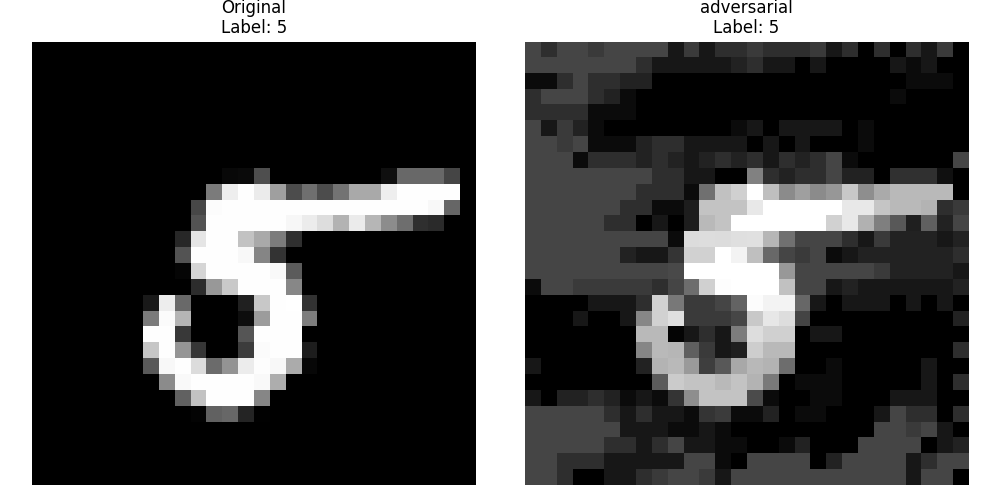
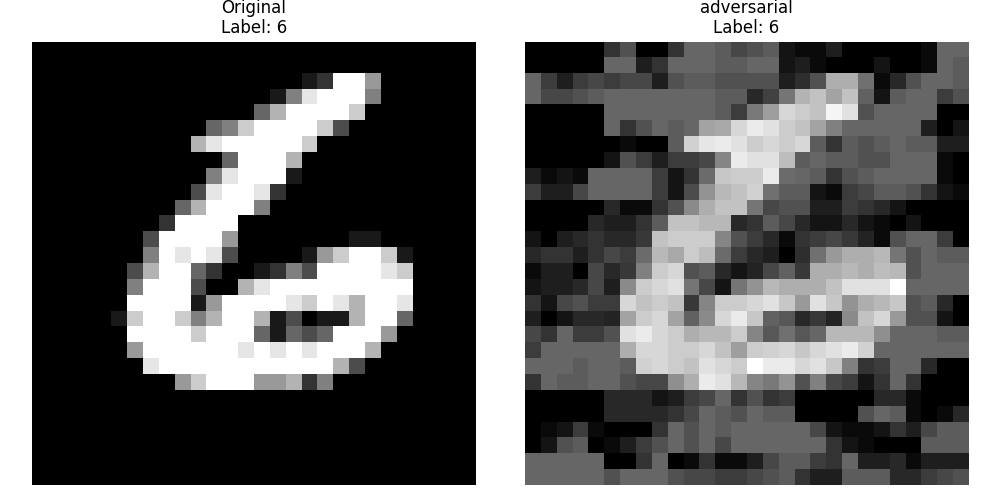
:art: add PoissonEncoder for image transformation and update adversarial image generation methods

diff --git a/utils/train.py b/utils/train.py
@@ -9,7 +9,7 @@ from .spikingjelly.spikingjelly.activation_based.model import spiking_vgg
 from typing import Tuple
 from tqdm.auto import tqdm
 from .model import CNN, SNN
-from .adversarial_image import generate_adv_image, save_image
+from .adversarial_image import generate_adversial_image_fgsm, save_image
 from .config import Config
 
 
@@ -22,29 +22,28 @@ def train_model(config: Config, mode=None) -> Tuple[float, float]:
     for i, (data, target) in tqdm(enumerate(iter(config.train_loader))):
         data, target = data.to(config.device), target.to(config.device)
 
-        if mode == "gd":
-            config.optimizer.zero_grad()
+        config.optimizer.zero_grad()
 
-        if mode == "stdp":
-            if config.parameters_stdp:
-                config.optimizer_stdp.zero_grad()
+        if config.parameters_stdp:
+            config.optimizer_stdp.zero_grad()
 
         y_hat = net(data).mean(0) if config.method != "CNN" else net(data)
         loss = config.loss_fn(y_hat, target)
-        loss.backward()
 
         if mode == "stdp":
             if config.parameters_stdp:
                 for learner in config.stdp_learners:
                     with th.no_grad():
                         learner.step(on_grad=True)
+                        learner.synapse.weight.data.clamp_(0.0, 1.0)
 
         if mode == "gd":
+            loss.backward()
             config.optimizer.step()
 
-        if mode == "stdp":
-            if config.parameters_stdp:
-                config.optimizer_stdp.step()
+        # if mode == "stdp":
+        #    if config.parameters_stdp:
+        #        config.optimizer_stdp.step()
 
         functional.reset_net(net)
 
@@ -64,9 +63,12 @@ def train_model(config: Config, mode=None) -> Tuple[float, float]:
 
 def evaluate_model(config: Config) -> Tuple[float, float]:
     net = config.network
-    net.eval()
+    # net.eval()
     if config.load:
         net.load_state_dict(th.load(f"./saved/{config.method.lower()}_{config.data_set}.pt"))
+
+    net.eval()
+
     total_loss, total_acc = 0, 0
     length = 0
 
@@ -78,7 +80,7 @@ def evaluate_model(config: Config) -> Tuple[float, float]:
         if config.attack:
             net.train()
 
-            adv_imgs = generate_adv_image(net, data, target, config.epsilon)
+            adv_imgs = generate_adversial_image_fgsm(net, data, target, config.epsilon)
             save_image(
                 data, adv_imgs, f"./images/comparison_image_{config.method.lower()}_{config.data_set}.png", target
             )
@@ -141,26 +143,42 @@ def train_evaluate(config: Config) -> None:
                 print(f"Adding STDP learner to {module}")
                 added = True
                 parameters_stdp.extend(module.parameters())
-            elif isinstance(module, (nn.Linear, nn.Conv2d)):
+            else:
                 print(f"Adding GD Optimizer to {module}")
                 parameters_gd.extend(module.parameters())
     else:
         parameters_gd = net.parameters()
 
-    config.optimizer = th.optim.Adam(parameters_gd, lr=config.lr)
+    all_parameters = list(net.parameters())
+    parameters_stdp_set = set(parameters_stdp)
+    parameters_gd = [p for p in all_parameters if p not in parameters_stdp_set]
+
+    config.optimizer = th.optim.Adam(all_parameters, lr=config.lr)
 
     config.network = net
     config.parameters_stdp = parameters_stdp
     config.stdp_learners = stdp_learners
 
     config.optimizer_stdp = (
-        th.optim.SGD(config.parameters_stdp, lr=config.lr, momentum=0.0) if config.parameters_stdp else None
+        th.optim.SGD(config.parameters_stdp, lr=config.lr * 0.1, momentum=0.0) if config.parameters_stdp else None
     )
 
     attack = config.attack
     if attack:
         adv_config = replace(config, attack=True)
         config = replace(config, attack=False)
+
+    layer_num = 0
+    layer_num_2 = 3
+
+    weight = config.network.layer[layer_num].weight.clone()
+    weight2 = config.network.layer[layer_num_2].weight.clone()
+
+    print("Weight stats after STDP:")
+    print("min:", weight.data.min().item())
+    print("max:", weight.data.max().item())
+    print("mean:", weight.data.mean().item())
+
     for epoch in range(config.num_epochs):
         if config.load:
             if attack:
@@ -183,8 +201,27 @@ def train_evaluate(config: Config) -> None:
         else:
             if epoch % 2 == 1:
                 epoch_loss, epoch_acc = train_model(config, "stdp")
+
+                print("After STDP:", (weight - config.network.layer[layer_num].weight).abs().sum())
+                print("After STDP:", (weight2 - config.network.layer[layer_num_2].weight).abs().sum())
+
+                weight = config.network.layer[layer_num].weight.clone()
+                weight2 = config.network.layer[layer_num_2].weight.clone()
+
+                print("Weight stats after STDP:")
+                print("min:", weight.data.min().item())
+                print("max:", weight.data.max().item())
+                print("mean:", weight.data.mean().item())
+
             else:
                 epoch_loss, epoch_acc = train_model(config, "gd")
+
+                print("After GD:", (weight - config.network.layer[layer_num].weight).abs().sum())
+                print("After GD:", (weight2 - config.network.layer[layer_num_2].weight).abs().sum())
+
+                weight = config.network.layer[layer_num].weight.clone()
+                weight2 = config.network.layer[layer_num_2].weight.clone()
+
             print(f"{epoch + 1} epoch - Loss: {epoch_loss:.4f}, Acc: {epoch_acc:.2f}%")
             # wandb.log({
             #              "attack loss" : epoch_loss,
@@ -192,7 +229,7 @@ def train_evaluate(config: Config) -> None:
             #          },
             #              step = epoch + 1
             #          )
-            if config.save:
+            if True:
                 th.save(net.state_dict(), f"./saved/{config.method.lower()}_{config.data_set}.pt")
             if attack:
                 epoch_adv_loss, epoch_adv_acc = evaluate_model(adv_config)

diff --git a/utils/adversarial_image.py b/utils/adversarial_image.py
@@ -4,11 +4,47 @@ import matplotlib.pyplot as plt
 import torch.nn as nn
 from torchvision import transforms
 from .spikingjelly.spikingjelly.activation_based import functional
+from .model import CNN, SNN
 
 
-def generate_adv_image(model, image, target, epsilon=0.05):
+def generate_adversial_image_fgsm(model, image, target, epsilon=0.05):
     """
     Method : FGSM
+    param model : trained model
+    param image : original image (shape : [batch_size, 1, 28, 28])
+    param target : target of original image
+    param epsilon : adversial intensity
+    """
+    image = image.clone().detach().to(th.device("cuda:0"))
+    target = target.clone().detach().to(th.device("cuda:0"))
+
+    # model = SNN(T=10).cuda()
+    # model.load_state_dict(th.load(f"./saved/snn_MNIST.pt"))
+
+    image.requires_grad = True
+    model.zero_grad()
+    y_hat = model(image)
+
+    if y_hat.dim() == 3:
+        y_hat = y_hat.mean(0)
+    loss = F.cross_entropy(y_hat, target)
+
+    # model.zero_grad()
+    # loss.backward()
+
+    # grad_sign = image.grad.sign()
+
+    grad_sign = th.autograd.grad(loss, image, retain_graph=False, create_graph=False)[0].sign()
+
+    adversarial_image = image + epsilon * grad_sign  # image + pertubation
+    adversarial_image = th.clamp(adversarial_image, 0, 1).detach()
+
+    return adversarial_image
+
+
+def generate_adv_image_pgd(model, image, target, epsilon=0.05):
+    """
+    Method : PGD
     param model : trained model
     param image : original image (shape : [batch_size, 1, 28, 28])
     param target : target of original image
@@ -59,6 +95,9 @@ def save_image(original_image, adversarial_image, filename, target):
     param target : target of the image
     """
     import random
+
+    original_image = original_image.mean(1)
+    adversarial_image = adversarial_image.mean(1)
 
     r = random.randint(0, len(original_image) - 1)
 

diff --git a/main.py b/main.py
@@ -54,6 +54,19 @@ def manual_seed(seed: int = 42) -> None:
     th.use_deterministic_algorithms(True, warn_only=True)
 
 
+class PoissonEncoder:
+    def __init__(self, T: int):
+        self.T = T
+
+    def __call__(self, image: th.Tensor) -> th.Tensor:
+        """
+        image: (1, 28, 28), float tensor in [0,1]
+        return: (T, 1, 28, 28), binary spikes
+        """
+        # Poisson spike sampling across T timesteps
+        return (th.rand(self.T, *image.shape) < image).float()
+
+
 if __name__ == "__main__":
     args = implement_parser()
 
@@ -74,8 +87,10 @@ if __name__ == "__main__":
     manual_seed(args.seed)
 
     if args.data_set == "MNIST":
-        MNIST_train = MNIST(root="./data", download=True, train=True, transform=transforms.ToTensor())
-        MNIST_test = MNIST(root="./data", download=True, train=False, transform=transforms.ToTensor())
+        transform = transforms.Compose([transforms.ToTensor(), PoissonEncoder(T=10)])
+
+        MNIST_train = MNIST(root="./data", download=True, train=True, transform=transform)
+        MNIST_test = MNIST(root="./data", download=True, train=False, transform=transform)
 
         train_loader = DataLoader(MNIST_train, batch_size=args.batch_size, shuffle=True, num_workers=args.num_workers)
         test_loader = DataLoader(MNIST_test, batch_size=args.batch_size, shuffle=False, num_workers=args.num_workers)

diff --git a/utils/model.py b/utils/model.py
@@ -57,6 +57,7 @@ class SNN(nn.Module):
         Returns:
             th.Tensor: Output tensor, shape (batch_size, 10)
         """
-        x = x.unsqueeze(0).repeat(self.T, 1, 1, 1, 1)
+        # x = x.unsqueeze(0).repeat(self.T, 1, 1, 1, 1)
+        x = x.permute(1, 0, 2, 3, 4)
         x = self.layer(x)
         return x
